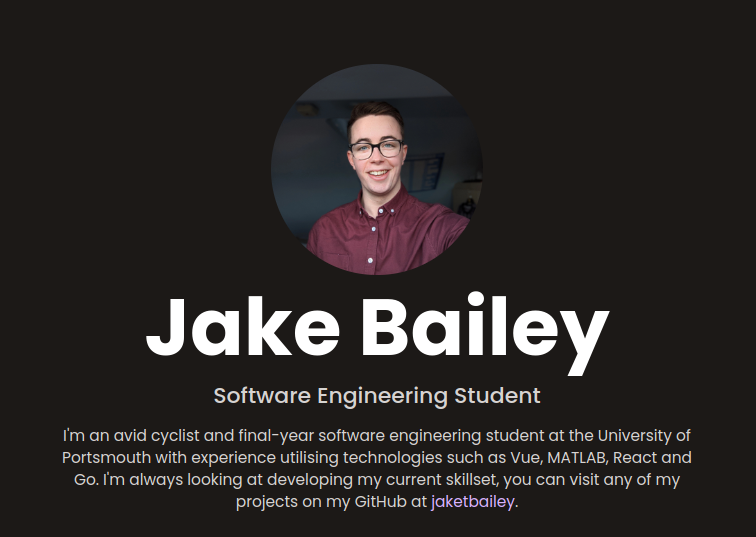
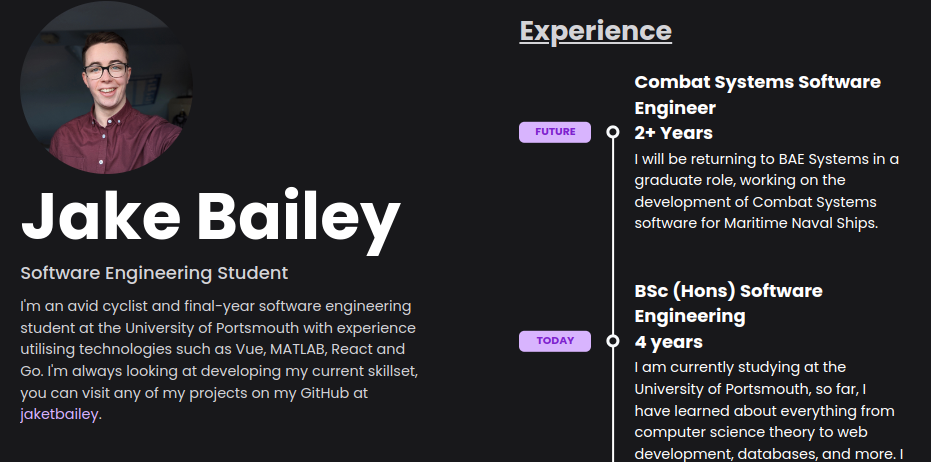
more updates

Changed region(s): [[0.0, 0.0, 0.9735, 1.0], [0.6693, 0.3333, 0.9735, 0.5152], [0.5476, 0.0303, 0.7302, 0.1212]]

diff --git a/src/components/TimelineItem.jsx b/src/components/TimelineItem.jsx
@@ -5,7 +5,7 @@ export default function TimelineItem({ data, theme }) {
         <div className="relative pl-8 sm:pl-32 py-6 group">
             <div className={`font-semibold text-xl mb-1 sm:mb-0 text-zinc-900 dark:text-white`}>{data.title}</div>
             <div className="flex flex-col sm:flex-row items-start mb-1 group-last:before:hidden before:absolute before:left-2 sm:before:left-0 before:h-full before:px-px before:bg-zinc-900 dark:before:bg-white sm:before:ml-[6.5rem] before:self-start before:-translate-x-1/2 before:translate-y-3 after:absolute after:left-2 sm:after:left-0 after:w-2 after:h-2 after:bg-white dark:after:bg-zinc-900 after:border-4 after:box-content after:border-zinc-900 dark:after:border-slate-50 after:rounded-full sm:after:ml-[6.5rem] after:-translate-x-1/2 after:translate-y-1.5">
-                <time className="sm:absolute left-0 translate-y-0.5 inline-flex items-center justify-center text-xs font-semibold uppercase w-20 h-6 mb-3 sm:mb-0 text-blue-600 bg-blue-300 dark:text-purple-600 dark:bg-purple-300 rounded-full">{data.year}</time>
+                <time className="sm:absolute left-0 translate-y-0.5 inline-flex items-center justify-center text-xs font-semibold uppercase w-20 h-6 mb-3 sm:mb-0 text-blue-600 bg-blue-300 dark:text-purple-700 dark:bg-purple-300 rounded-md">{data.year}</time>
                 <div className="text-xl font-bold text-slate-900 dark:text-white">{data.duration}</div>
             </div>
             <div className="text-zinc-800 dark:text-white">{data.details}</div>

diff --git a/src/components/PortfolioItem.jsx b/src/components/PortfolioItem.jsx
@@ -11,7 +11,7 @@ export default function PortfolioItem({ title, imgUrl, stack, link, description 
 
    return (
       <button 
-         className="border-2 border-zinc-900 dark:border-white rounded-md overflow-hidden"
+         className="border-2 border-zinc-900 dark:border-white rounded-md overflow-hidden w-full md:w-5/6"
          onClick={() => setShowModal(!showModal)}
       >
          <Modal
@@ -30,7 +30,7 @@ export default function PortfolioItem({ title, imgUrl, stack, link, description 
             <h3 className="text-lg md:text-xl dark:text-white mb-2 md:mb-3 font-semibold ">{title}</h3>
             <p className="flex flex-wrap gap-2 flex-row items-center justify-start text-xs md:text-sm dark:text-white ">
                {stack.map(item => (
-                  <span className="inline-block px-2 py-1 font-medium border-2 border-zinc-900 dark:border-white rounded-md">
+                  <span className="inline-block px-2 py-1 text-xs font-semibold uppercase text-blue-700 bg-blue-300 dark:text-purple-700 dark:bg-purple-300 rounded-md">
                      {item}
                   </span>
                ))}

diff --git a/src/App.jsx b/src/App.jsx
@@ -67,14 +67,15 @@ function App() {
   
     return (
       <>
+      <div></div>
         <button
           type="button"
           onClick={handleThemeSwitch}
-          className="fixed p-2 z-10 right-5 md:right-20 top-4 bg-blue-400 dark:bg-purple-400 text-lg p-1 rounded-md"
+          className="absolute md:fixed p-2 z-10 right-5 md:right-20 top-4 bg-blue-400 dark:bg-purple-400 text-lg p-1 rounded-md"
         >
           {theme === 'dark' ? sun : moon}
         </button>
-        <div className="fixed z-10 left-5 md:left-20 top-4 space-x-4 flex items-center">
+        <div className="absolute md:fixed z-10 left-5 md:left-20 top-4 space-x-4 flex items-center">
           <img src="/jake_portrait.webp" alt="Jake Bailey" className="rounded-full w-10 h-10" />
           <Socials theme={theme} />
         </div>

diff --git a/src/components/Intro.jsx b/src/components/Intro.jsx
@@ -5,7 +5,7 @@ export default function Intro() {
          <img src="/jake_portrait.webp" alt="Jake Bailey" className="rounded-full w-48 h-48 mb-3" />
          <h1 className="text-4xl md:text-7xl dark:text-white mb-1 md:mb-3 font-bold">Jake Bailey</h1>
          <p className="text-base md:text-xl mb-3 font-medium">Software Engineering Student</p>
-         <p className="text-sm max-w-md mb-6">
+         <p className="text-md max-w-full md:max-w-md mb-6">
             I'm an avid cyclist and final-year software engineering student at the University of Portsmouth
             with experience utilising technologies such as Vue, MATLAB, React and Go. I'm always looking at 
             developing my current skillset, you can visit any of my projects on my GitHub at{' '}

diff --git a/src/data/timeline.js b/src/data/timeline.js
@@ -2,7 +2,7 @@ export default [
     {
         year: 'Future',
         title: 'Combat Systems Software Engineer',
-        duration: '2+ Years',
+        duration: '1+ years',
         details:
             'I will be returning to BAE Systems in a graduate role, working on the development of Combat Systems software for Maritime Naval Ships.',
     },
@@ -23,7 +23,7 @@ export default [
     {
         year: '2019',
         title: 'IT Department Work Experience',
-        duration: '1 Month',
+        duration: '1 month',
         details:
         "In 2019 I worked a voluntary, short term work experience position at Global (formally Exterion Media) within their IT Department.",
     },

diff --git a/src/components/Footer.jsx b/src/components/Footer.jsx
@@ -3,13 +3,13 @@ import Socials from "./Socials";
 export default function Footer({ theme }) {
     return (
 		<div className="py-5 text-center">
-				<div className="container max-w-screen-lg mx-auto">
-					<div>
-						<div className="flex flex-wrap justify-center gap-2">
-							<Socials theme={theme} />
-						</div>
+			<div className="container max-w-screen-lg mx-auto">
+				<div>
+					<div className="flex flex-wrap justify-center gap-2">
+						<Socials theme={theme} />
 					</div>
 				</div>
+			</div>
 			<p className="text-sm mt-2  opacity-50">
 				&copy; {new Date().getFullYear()} Jake Bailey. All rights reserved.
 			</p>

diff --git a/src/components/Timeline.jsx b/src/components/Timeline.jsx
@@ -6,8 +6,8 @@ export default function Timeline() {
     const theme = 'dark'; // replace this with your theme state
     return (
         <div className="flex flex-col items-center justify-center">
-            <div className="pt-12 w-5/6">
-            <h2 className="pt-12 text-3xl font-bold underline">Experience</h2>
+            <div className="pt-10 md:pt-12 w-full md:w-5/6">
+            <h2 className="md:pt-12 text-3xl font-bold underline">Experience</h2>
                 {timelineData.map((data, idx) => (
                     <TimelineItem key={idx} data={data} theme={theme} />
                 ))}

diff --git a/src/components/Portfolio.jsx b/src/components/Portfolio.jsx
@@ -8,8 +8,8 @@ export default function Portfolio() {
 
 
    return (
-      <div className="flex flex-col md:flex-row items-left justify-left">
-         <div className="grid grid-cols-2 md:grid-cols-1 lg:grid-cols-1 gap-6">
+      <div className="flex flex-col items-left justify-left">
+         <div className="grid grid-cols-1 md:grid-cols-1 lg:grid-cols-1 gap-6">
             {portfolio.map(project => (
                <PortfolioItem 
                   imgUrl={project.imgUrl}
